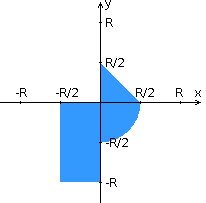
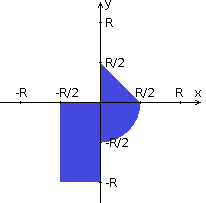
подправил цвета

Changed region(s): [[0.2913, 0.3251, 0.699, 0.9163]]

diff --git a/page.html b/page.html
@@ -7,7 +7,7 @@
 
 <head>
     <meta charset="UTF-8">
-    <title>Заголовок</title>
+    <title>Laba var. 3016</title>
 </head>
 <script src="https://ajax.googleapis.com/ajax/libs/jquery/3.5.1/jquery.min.js"></script>
 <script type="text/javascript" src="js/theme_changer.js"></script>
@@ -26,7 +26,7 @@
         <br>
         выполнил: Птицын Максим Евгеньевич
         <br>
-        группа: хз ))0)
+        группа: P3230
     </div>
     <!-- input block -->
     <div class="Input_Block">
